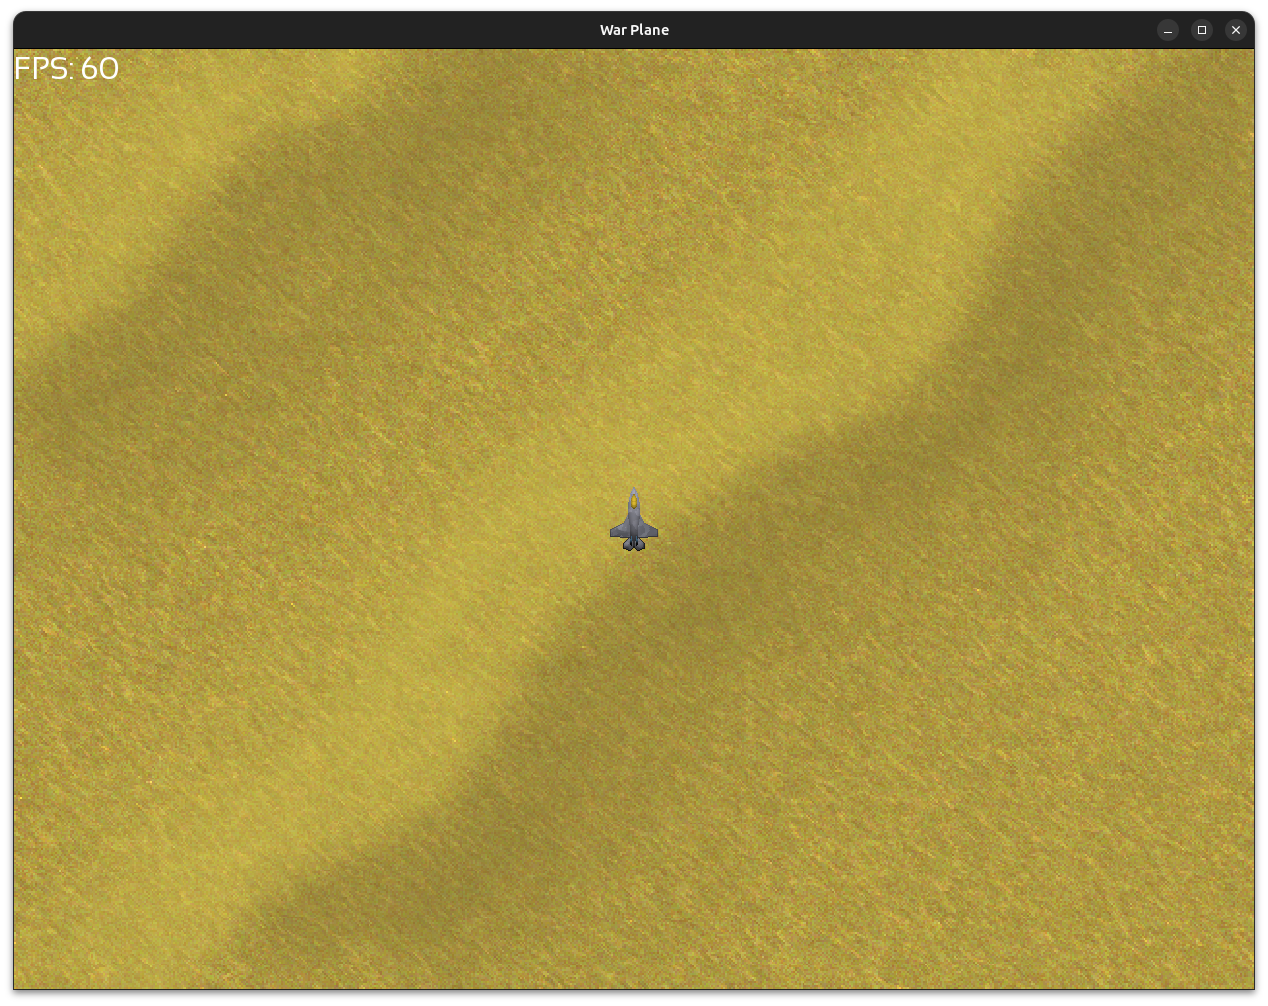
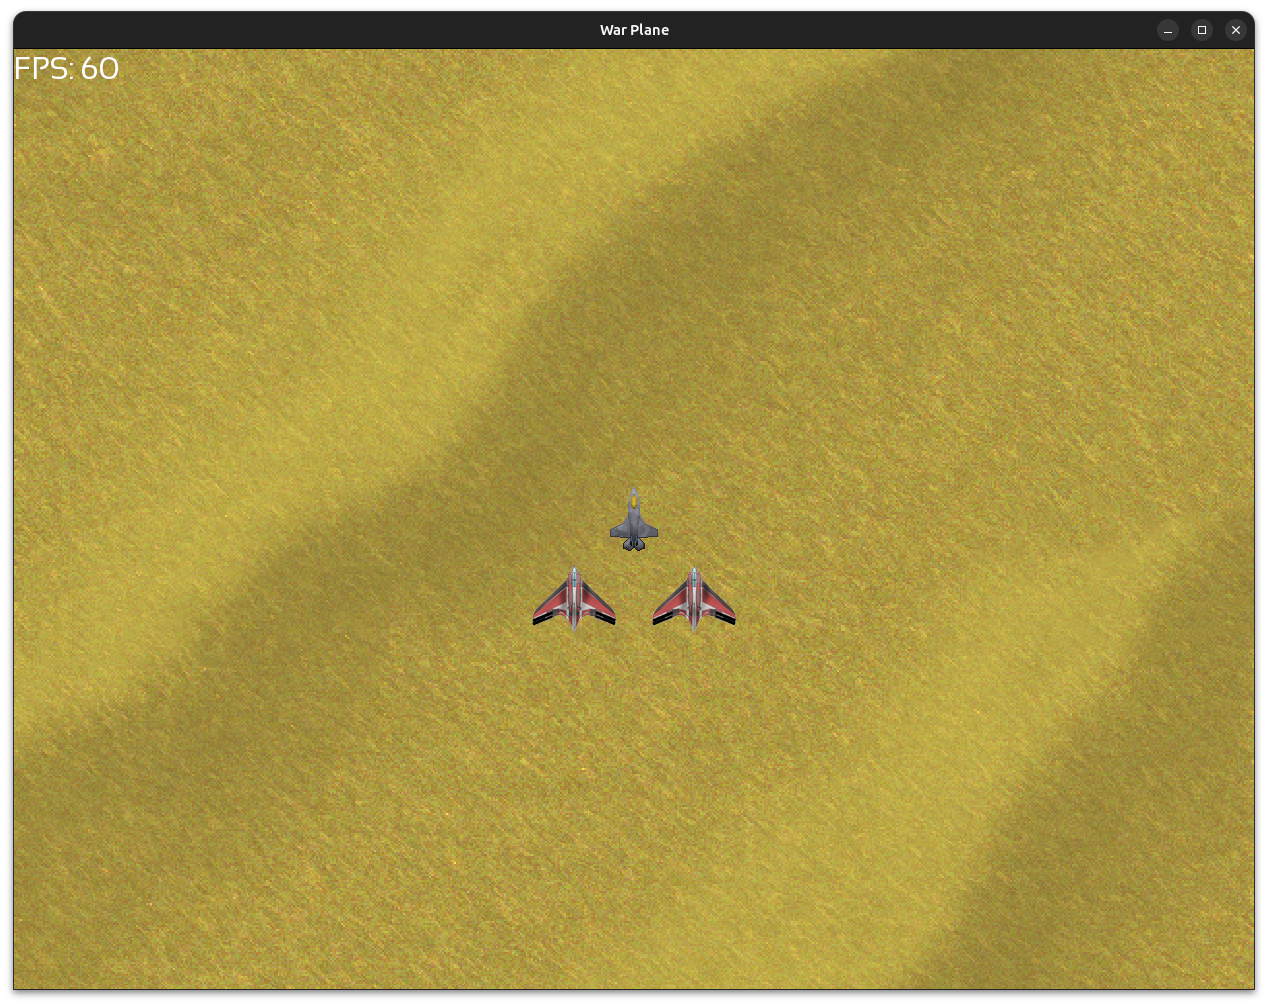
WASD commands

diff --git a/src/entity/Player.cpp b/src/entity/Player.cpp
@@ -1,0 +1,62 @@
+#include "entity/Player.hpp"
+#include "command/Category.hpp"
+#include "entity/Aircraft.hpp"
+#include "SceneNode.hpp"
+#include "command/CommandQueue.hpp"
+#include <SFML/System/Time.hpp>
+#include <SFML/System/Vector2.hpp>
+#include <SFML/Window/Keyboard.hpp>
+
+struct AircraftMover {
+    AircraftMover(const float vx, const float vy): velocity(vx, vy) {}
+
+    void operator() (SceneNode& node, sf::Time& dt) {
+        Aircraft& aircraft = static_cast<Aircraft&>(node);
+        aircraft.accelerate(velocity * dt.asSeconds());
+    }
+
+    const sf::Vector2f velocity;
+};
+
+Player::Player() {
+}
+
+void Player::handle_event(const sf::Event& event, CommandQueue& commands) {
+}
+void Player::handle_realtime_event(CommandQueue& commands) {
+    float speed = 2.5f;
+
+    if(sf::Keyboard::isKeyPressed(sf::Keyboard::W)) {
+        Command move_up {
+            .action     = AircraftMover(0.f, -speed),
+            .category   = Category::PlayerAircraft
+        };
+
+        commands.push_back(move_up);
+    }
+
+    if(sf::Keyboard::isKeyPressed(sf::Keyboard::S)) {
+        Command move_down {
+            .action     = AircraftMover(0.f, speed),
+            .category   = Category::PlayerAircraft
+        };
+        commands.push_back(move_down);
+    }
+
+    if(sf::Keyboard::isKeyPressed(sf::Keyboard::A)) {
+        Command move_left {
+            .action = AircraftMover(-speed, 0.f),
+            .category = Category::PlayerAircraft
+        };
+        commands.push_back(move_left);
+    }
+
+    if(sf::Keyboard::isKeyPressed(sf::Keyboard::D)) {
+        Command move_right {
+            .action     = AircraftMover(speed, 0.f),
+            .category   = Category::PlayerAircraft
+        };
+        commands.push_back(move_right);
+    }
+
+}

diff --git a/src/entity/Aircraft.cpp b/src/entity/Aircraft.cpp
@@ -1,6 +1,5 @@
 #include "entity/Aircraft.hpp"
 #include "command/Category.hpp"
-#include "entity/Entity.hpp"
 #include "resources/ResourceIdentifier.hpp"
 #include "utilities.hpp"
 #include <SFML/Graphics/RenderStates.hpp>
@@ -19,11 +18,7 @@ Textures::ID get_texture_id(const Aircraft::Type type) {
 }
 
 Aircraft::Aircraft(const Aircraft::Type type, const TextureHolder& textures)
-: m_type(type)
-, m_is_moving_up(false)
-, m_is_moving_down(false)
-, m_is_moving_right(false)
-, m_is_moving_left(false) {
+: m_type(type) {
     const auto texture_id = get_texture_id(type);
     m_sprite.setTexture(textures.get(texture_id));
     center_origin(m_sprite);
@@ -31,37 +26,6 @@ Aircraft::Aircraft(const Aircraft::Type type, const TextureHolder& textures)
 
 void Aircraft::draw_current(sf::RenderTarget& target, sf::RenderStates states) const {
     target.draw(m_sprite, states);
-}
-
-void Aircraft::update_current(sf::Time& dt) {
-    if (m_type != Eagle ) return;
-
-    const float speed = 200.f;
-    sf::Vector2f velocity(0.f, -100.f);
-
-    if(m_is_moving_up)     velocity.y -= speed;
-    if(m_is_moving_down)   velocity.y += speed * 2;
-    if(m_is_moving_left)   velocity.x -= speed;
-    if(m_is_moving_right)  velocity.x += speed;
-
-    set_velocity(velocity);
-    Entity::update_current(dt);
-}
-
-void Aircraft::move_down(const bool is_pressed) {
-    m_is_moving_down = is_pressed;
-}
-
-void Aircraft::move_right(const bool is_pressed) {
-    m_is_moving_right = is_pressed;
-}
-
-void Aircraft::move_left(const bool is_pressed) {
-    m_is_moving_left = is_pressed;
-}
-
-void Aircraft::move_up(const bool is_pressed) {
-    m_is_moving_up = is_pressed;
 }
 
 unsigned int Aircraft::get_category() const {

diff --git a/src/Game.cpp b/src/Game.cpp
@@ -1,4 +1,5 @@
 #include "Game.hpp"
+#include "command/CommandQueue.hpp"
 #include "entity/Aircraft.hpp"
 #include "resources/ResourceIdentifier.hpp"
 #include <SFML/Graphics/Color.hpp>
@@ -17,10 +18,7 @@
 Game::Game()
 : m_window(sf::VideoMode(1240, 940), "War Plane")
 , m_world(m_window, m_textures)
-, m_player(m_world.get_player())
-
 , m_text()
-
 , m_is_paused(false) {
     load_resources();
 
@@ -55,8 +53,13 @@ void Game::run() {
 
 void Game::process_events() {
     sf::Event event;
+
+    CommandQueue& commands = m_world.get_command_queue();
     
     while(m_window.pollEvent(event)) {
+
+        m_player.handle_event(event, commands);
+
         if(
             event.type == sf::Event::Closed
             || (
@@ -64,26 +67,11 @@ void Game::process_events() {
                 && event.key.code == sf::Keyboard::Escape
             )
         ) m_window.close();
-
-        else if(event.type == sf::Event::KeyPressed) {
-            handle_player_inputs(event.key.code, true);
-            if(event.key.code == sf::Keyboard::Space) m_is_paused = !m_is_paused; // Handle pause
-        }
-
-        else if(event.type == sf::Event::KeyReleased) {
-            handle_player_inputs(event.key.code, false);
-        }
-
         else if(event.type == sf::Event::GainedFocus) m_is_paused = false;
         else if(event.type == sf::Event::LostFocus) m_is_paused = true;
     }
-}
 
-void Game::handle_player_inputs(const sf::Keyboard::Key& key, const bool& is_pressed) {
-    if(key == sf::Keyboard::W)      m_player.move_up(is_pressed);
-    else if(key == sf::Keyboard::S) m_player.move_down(is_pressed);
-    else if(key == sf::Keyboard::D) m_player.move_right(is_pressed);
-    else if(key == sf::Keyboard::A) m_player.move_left(is_pressed);
+    m_player.handle_realtime_event(commands);
 }
 
 void Game::update(sf::Time& dt) {

diff --git a/include/entity/Aircraft.hpp b/include/entity/Aircraft.hpp
@@ -16,23 +16,12 @@ class Aircraft: public Entity {
     public:
         explicit Aircraft(const Type type, const TextureHolder& textures);
 
-        void move_down(const bool is_pressed);
-        void move_right(const bool is_pressed);
-        void move_left(const bool is_pressed);
-        void move_up(const bool is_pressed);
-
         virtual unsigned int get_category() const;
     
     private:
         virtual void draw_current(sf::RenderTarget& target, sf::RenderStates states) const;
-        virtual void update_current(sf::Time& dt);
     
     private:
         Type m_type;
         sf::Sprite m_sprite;
-
-        bool m_is_moving_up;
-        bool m_is_moving_down;
-        bool m_is_moving_right;
-        bool m_is_moving_left;
 };

diff --git a/include/entity/Player.hpp b/include/entity/Player.hpp
@@ -1,0 +1,11 @@
+#pragma once
+
+#include "command/CommandQueue.hpp"
+#include <SFML/Window/Event.hpp>
+class Player {
+    /* This class give an order to player's aircraft */
+    public:
+        Player();
+        void handle_event(const sf::Event& event, CommandQueue& commands);
+        void handle_realtime_event(CommandQueue& commands);
+};

diff --git a/include/Game.hpp b/include/Game.hpp
@@ -1,7 +1,8 @@
 #pragma once
-#include "SceneNode.hpp"
+
 #include "World.hpp"
 #include "entity/Aircraft.hpp"
+#include "entity/Player.hpp"
 #include "resources/ResourceIdentifier.hpp"
 #include <SFML/Graphics.hpp>
 #include <SFML/Graphics/CircleShape.hpp>
@@ -24,10 +25,6 @@ class Game {
         void process_events();
         void update(sf::Time& dt);
         void draw();
-
-        // Player movements
-        void handle_player_inputs(const sf::Keyboard::Key& key, const bool& is_pressed);
-
         void update_static_texts(sf::Time dt);
     
     private:
@@ -44,7 +41,7 @@ class Game {
         FontHolder      m_font_holder;
 
         World m_world;
-        Aircraft& m_player;
+        Player m_player;
 
         sf::Text m_text;
 

diff --git a/src/World.cpp b/src/World.cpp
@@ -70,6 +70,7 @@ void World::build() {
     // Create Aircraft
     std::unique_ptr<Aircraft> aircraft(new Aircraft(Aircraft::Eagle, m_textures));
     aircraft->setPosition(m_spawn_player);
+    aircraft->set_velocity(m_scroll_speed);
     m_player = aircraft.get();
     m_layers[Air]->attach_child(std::move(aircraft));
     
@@ -85,12 +86,13 @@ void World::build() {
 
 void World::update(sf::Time& dt) {
     m_view.move(m_scroll_speed * dt.asSeconds());
-    m_graph.update(dt);
 
     // Propagate commands
     while(!m_command_queue.is_empty()) {
         m_graph.on_command(m_command_queue.pop(), dt);
     }
+    
+    m_graph.update(dt);
 }
 
 void World::draw() const {

diff --git a/src/entity/Entity.cpp b/src/entity/Entity.cpp
@@ -11,6 +11,10 @@ void Entity::set_velocity(const float& vx, const float& vy) {
     m_velocity.y = vy;
 }
 
+void Entity::accelerate(const sf::Vector2f& acceleration) {
+    m_velocity += acceleration;
+}
+
 sf::Vector2f Entity::get_velocity() const { return m_velocity; }
 
 void Entity::update_current(sf::Time& dt) {

diff --git a/include/command/Command.hpp b/include/command/Command.hpp
@@ -1,13 +1,10 @@
 #pragma once
 
 #include "SceneNode.hpp"
-#include "command/Category.hpp"
 #include <SFML/System/Time.hpp>
 #include <functional>
 
 struct Command {
     std::function<void(SceneNode& target, sf::Time& dt)> action;
     unsigned int category;
-
-    Command(const std::function<void(SceneNode& target, sf::Time& dt)>& action, const unsigned int& category = Category::None);
 };

diff --git a/include/entity/Entity.hpp b/include/entity/Entity.hpp
@@ -8,6 +8,8 @@ class Entity: public SceneNode {
     public:
         void set_velocity(const sf::Vector2f& velocity);
         void set_velocity(const float& vx, const float& vy);
+        
+        void accelerate(const sf::Vector2f& acceleration);
 
         sf::Vector2f get_velocity() const;
     

diff --git a/include/World.hpp b/include/World.hpp
@@ -3,7 +3,6 @@
 #include "SceneNode.hpp"
 #include "command/CommandQueue.hpp"
 #include "entity/Aircraft.hpp"
-#include "entity/SpriteNode.hpp"
 #include "resources/ResourceIdentifier.hpp"
 #include <SFML/Graphics/Rect.hpp>
 #include <SFML/Graphics/RenderWindow.hpp>